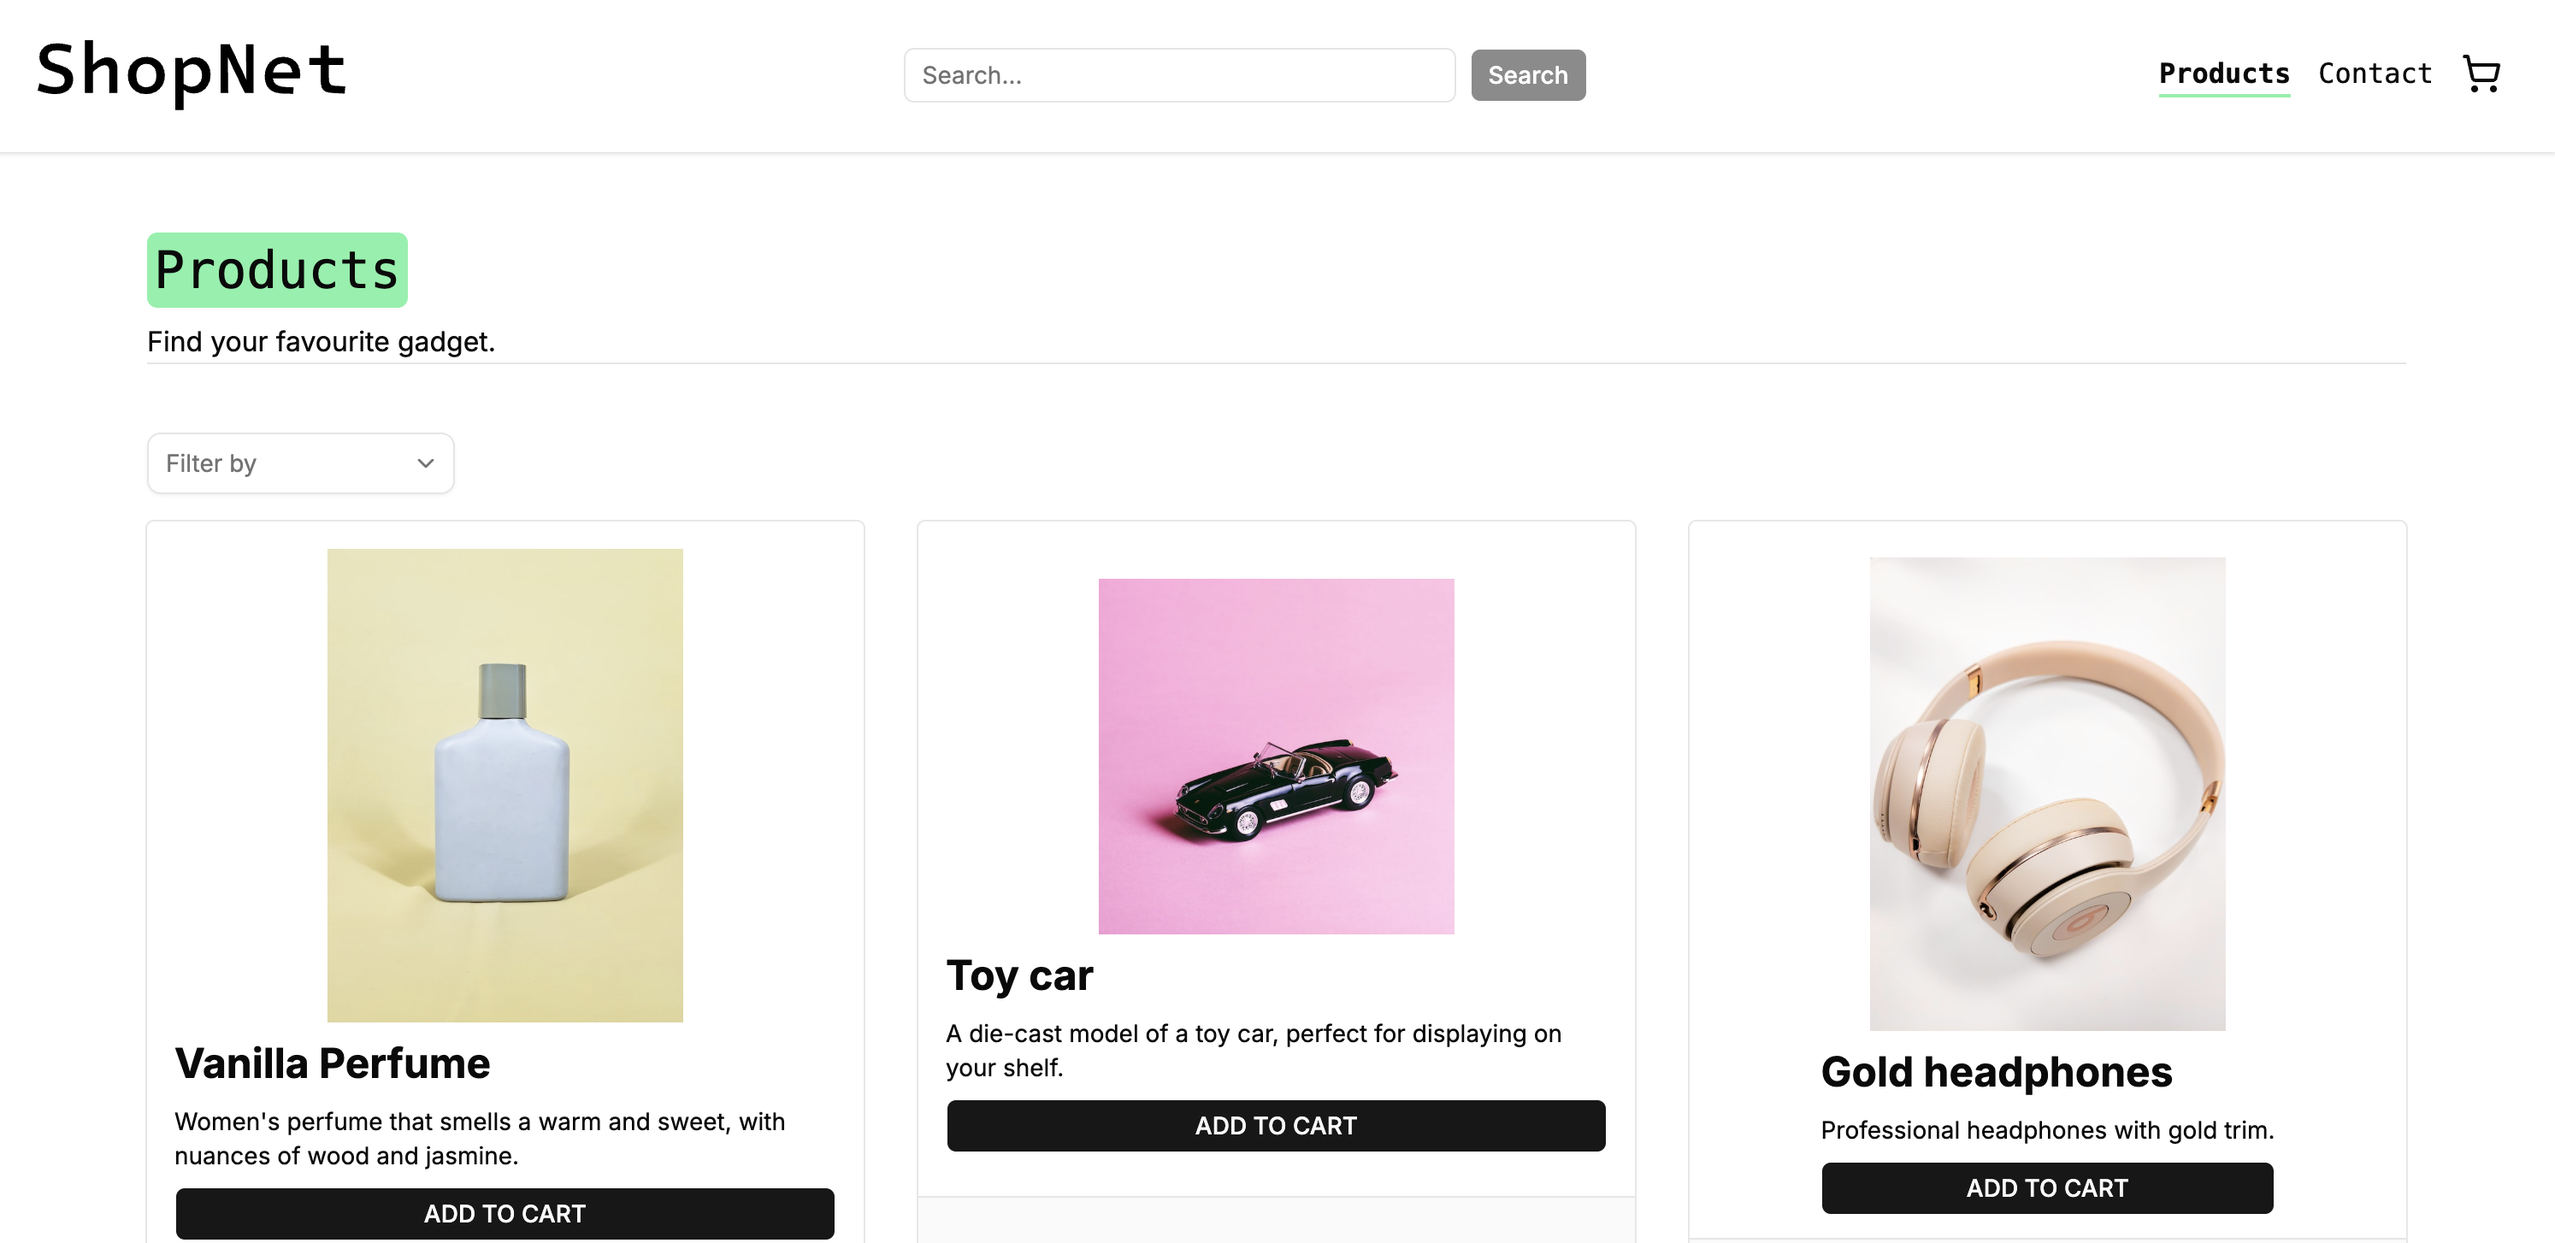
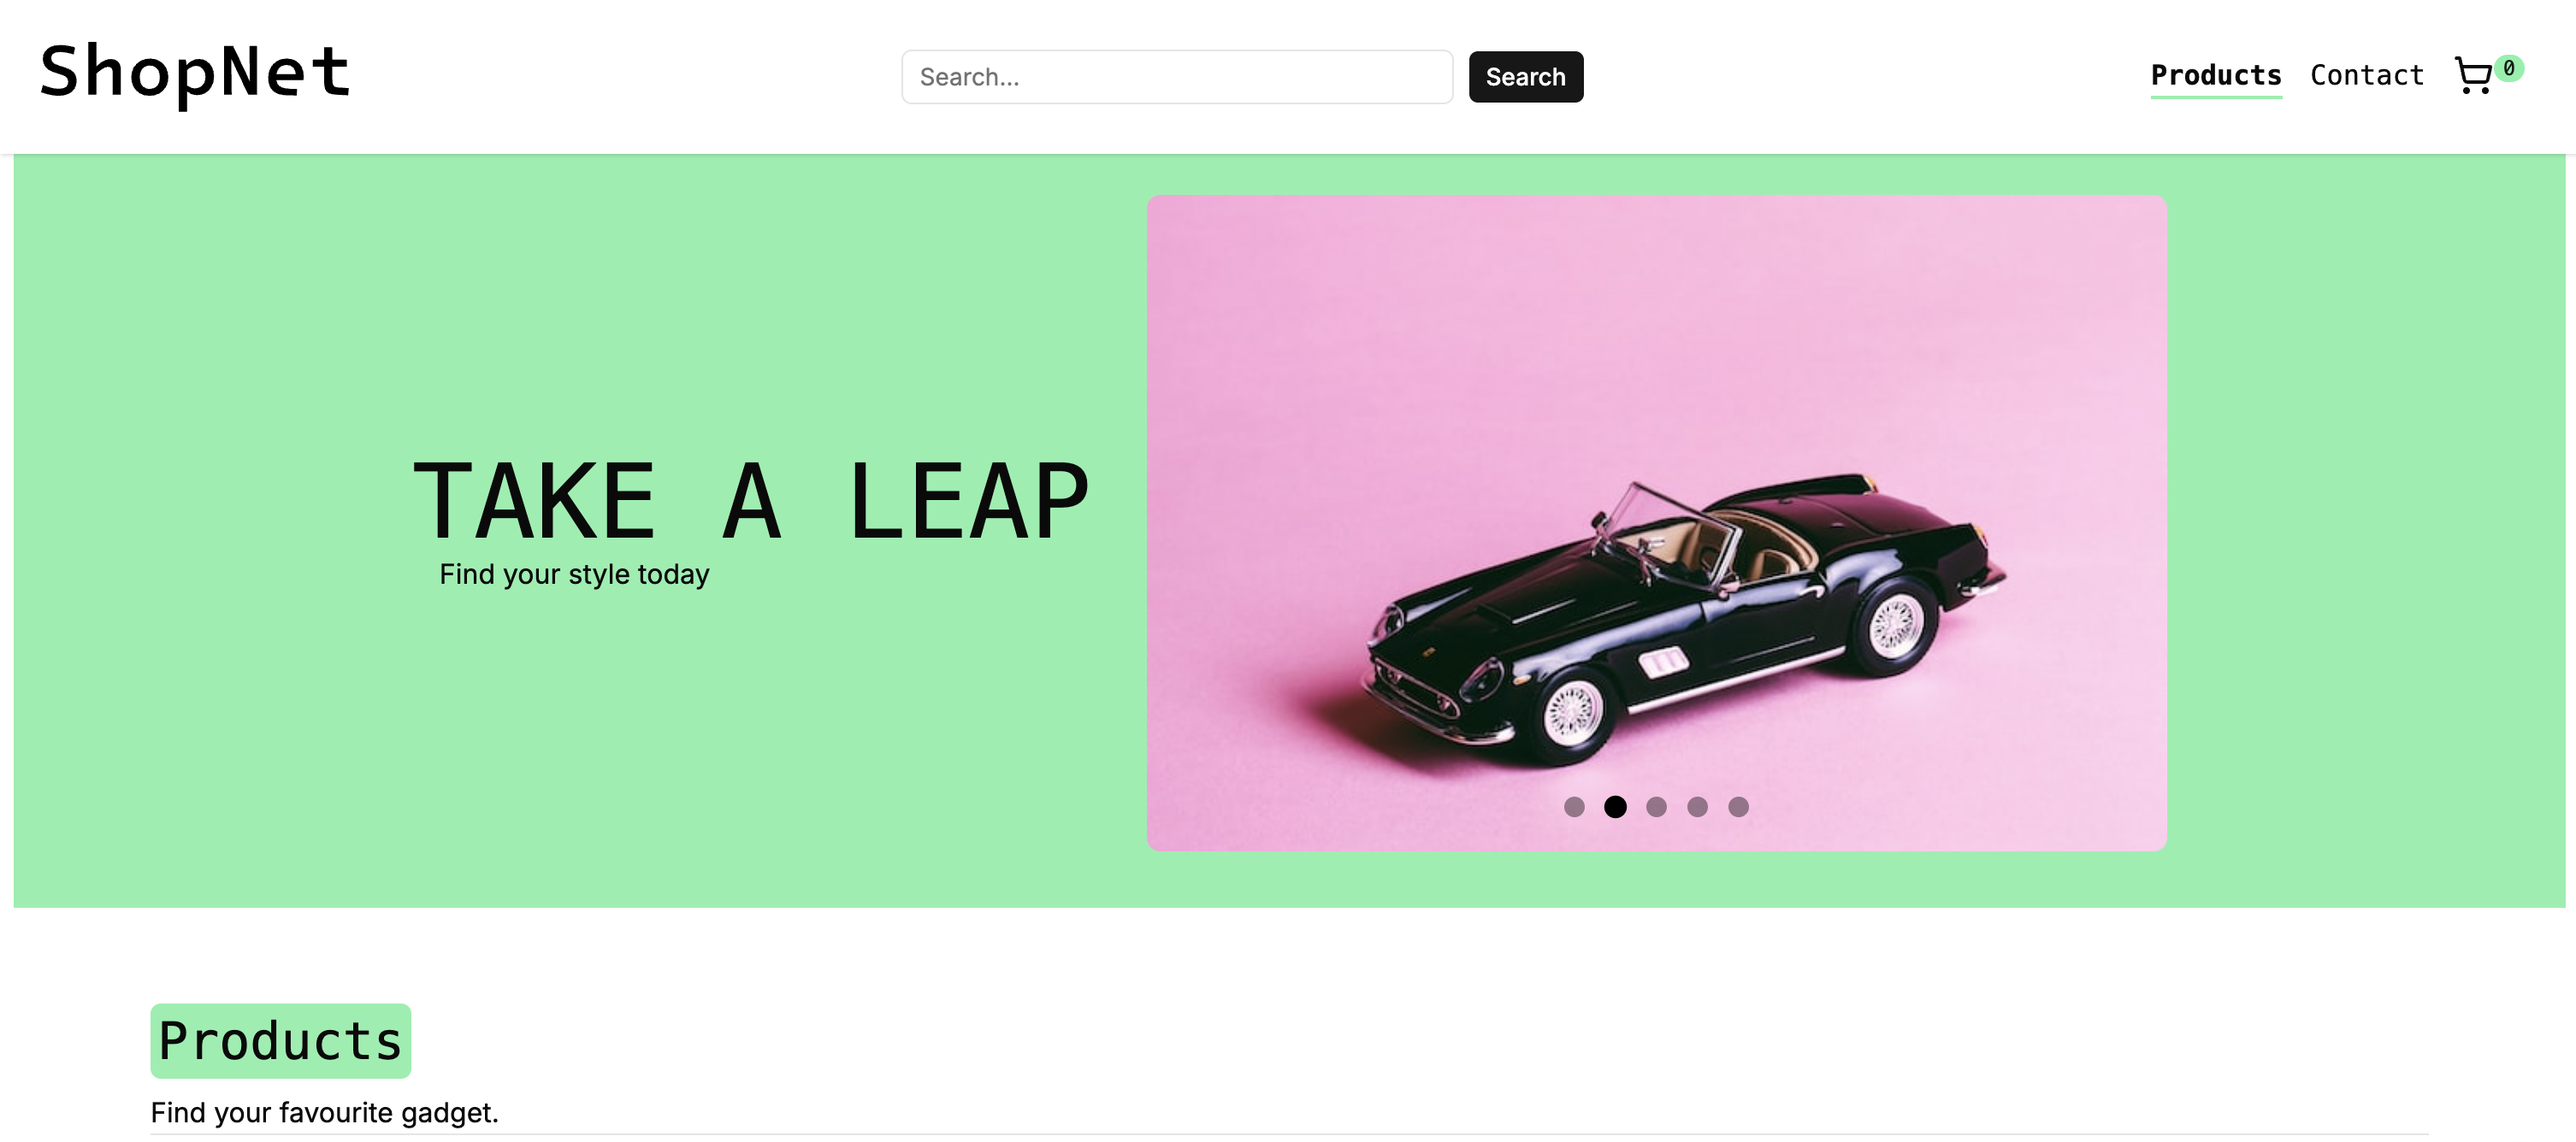
Types and error handling refactor chore: set ts strict flag to true in tsconfig chore: created zod schema for product, review, meta, productById and apiProduct feat: wired new product schemas to API calls, typing the payload and then parsing it chore: made sure pure useDispatch is only used in typed

diff --git a/src/services/api/products/fetch/fetchProductById.ts b/src/services/api/products/fetch/fetchProductById.ts
@@ -1,20 +1,22 @@
 import { BASE_URL, SHOP_URL } from "@/services/api/config";
 import { ApiError } from "@/services/api/apiError";
-import type { Product, ProductMeta } from "@/services/models/product";
+import { productByIdSchema } from "@/lib/zod/productByIdSchema";
+import z from "zod";
 
 export const fetchProductById = async (
   id: string,
-): Promise<{ data: Product; meta: ProductMeta }> => {
+): Promise<z.infer<typeof productByIdSchema>> => {
   const response = await fetch(`${BASE_URL}${SHOP_URL}/${id}`);
-  const payload = await response.json();
 
   if (!response.ok) {
-    throw new ApiError(
-      payload.error ?? payload.message ?? "Fetching article by id failed",
-      response.status || 400,
-      payload,
-    );
+    throw new ApiError("Invalid API response", response.status);
   }
 
-  return payload as { data: Product; meta: ProductMeta };
+  const payload: unknown = await response.json();
+  const parsedPayload = productByIdSchema.safeParse(payload);
+  if (!parsedPayload.success) {
+    throw new ApiError("Invalid parsed API response", 500, parsedPayload.error);
+  }
+
+  return parsedPayload.data;
 };

diff --git a/src/services/api/products/fetch/fetchProducts.ts b/src/services/api/products/fetch/fetchProducts.ts
@@ -1,18 +1,20 @@
 import { BASE_URL, SHOP_URL } from "@/services/api/config";
 import { ApiError } from "@/services/api/apiError";
 import type { ApiProduct } from "@/services/models/product";
+import { apiProductSchema } from "@/lib/zod/apiProductSchema";
 
 export const fetchProducts = async (): Promise<ApiProduct> => {
   const response = await fetch(`${BASE_URL}${SHOP_URL}`);
-  const payload = await response.json();
 
   if (!response.ok) {
-    throw new ApiError(
-      payload.error ?? payload.message ?? "Get all products failed",
-      response.status || 400,
-      payload,
-    );
+    throw new ApiError("Invalid API response", response.status);
   }
 
-  return payload as ApiProduct;
+  const payload: unknown = await response.json();
+  const parsedPayload = apiProductSchema.safeParse(payload);
+  if (!parsedPayload.success) {
+    throw new ApiError("Invalid parsed API response", 500, parsedPayload.error);
+  }
+
+  return parsedPayload.data;
 };

diff --git a/src/lib/zod/productSchema.ts b/src/lib/zod/productSchema.ts
@@ -1,0 +1,33 @@
+import z from "zod";
+
+export const reviewSchema = z.object({
+  id: z.string(),
+  username: z.string(),
+  rating: z.number(),
+  description: z.string(),
+});
+
+export const productSchema = z.object({
+  id: z.string(),
+  title: z.string(),
+  description: z.string(),
+  price: z.number(),
+  discountedPrice: z.number(),
+  image: z.object({
+    url: z.string(),
+    alt: z.string(),
+  }),
+  rating: z.number(),
+  tags: z.array(z.string()),
+  reviews: z.array(reviewSchema),
+});
+
+export const productMetaSchema = z.object({
+  currentPage: z.number().int(),
+  isFirstPage: z.boolean(),
+  isLastPage: z.boolean(),
+  nextPage: z.number().int().nullable(),
+  pageCount: z.number().int(),
+  previousPage: z.number().int().nullable(),
+  totalCount: z.number().int(),
+});

diff --git a/src/components/cart/CartDisplay.tsx b/src/components/cart/CartDisplay.tsx
@@ -1,4 +1,3 @@
-import { useDispatch } from "react-redux";
 import { useAppSelector } from "@/lib/redux/hooks/useAppSelector";
 import { updateQuantity } from "@/lib/redux/slices/cartSlice";
 
@@ -7,10 +6,11 @@ import { Button } from "@/components/ui/button/Button";
 import { AlertBox } from "@/components/alert/AlertBox";
 import { Trash2 } from "lucide-react";
 import { usePendingItem } from "@/hooks/usePendingItem";
+import { useAppDispatch } from "@/lib/redux/hooks/useAppDispatch";
 
 export const CartDisplay = () => {
   const itemsMap = useAppSelector((state) => state.cart.items);
-  const dispatch = useDispatch();
+  const dispatch = useAppDispatch();
   const { pendingItem, setIsPendingItem, confirmDelete, cancelRemove } =
     usePendingItem();
 

diff --git a/src/hooks/usePendingItem.ts b/src/hooks/usePendingItem.ts
@@ -1,13 +1,15 @@
 import { useState } from "react";
-import { useDispatch } from "react-redux";
+import { useAppDispatch } from "@/lib/redux/hooks/useAppDispatch";
 import { removeItem } from "@/lib/redux/slices/cartSlice";
+import toast from "react-hot-toast";
 
 export const usePendingItem = () => {
   const [pendingItem, setIsPendingItem] = useState<string | null>(null);
-  const dispatch = useDispatch();
+  const dispatch = useAppDispatch();
 
   const confirmDelete = () => {
     if (!pendingItem) return;
+    toast("Removed from cart");
     dispatch(removeItem(pendingItem));
     setIsPendingItem(null);
   };

diff --git a/src/components/checkout/CheckoutSummary.tsx b/src/components/checkout/CheckoutSummary.tsx
@@ -15,7 +15,7 @@ export const CheckoutSummary = () => {
   const totalItems = useAppSelector(selectTotalCartQuantity);
   const totalPrice = useAppSelector(selectTotalPrice);
   const fixedTotal = totalPrice.toFixed(2);
-  const discount = useAppSelector(selectTotalDiscount);
+  const discount = useAppSelector(selectTotalDiscount).toFixed(2);
   const deliveryFee = 49;
 
   const { handlePaymentProcess, openDialog, isDisabled } = usePaymentProcess();

diff --git a/src/hooks/useProductDetail.ts b/src/hooks/useProductDetail.ts
@@ -11,7 +11,7 @@ export const useProductDetail = (productId: Product["id"]) => {
   const hasTags = product.tags.length !== 0;
   const highestRating =
     product.reviews?.length > 0
-      ? Math.max(...product.reviews.map((rev) => Number(rev.rating)))
+      ? Math.max(...product.reviews.map((rev) => rev.rating))
       : "Not rated";
   const discountPercentage =
     ((product.price - product.discountedPrice) / product.price) * 100;

diff --git a/src/lib/redux/slices/cartSlice.ts b/src/lib/redux/slices/cartSlice.ts
@@ -3,8 +3,8 @@ import {
   createSelector,
   type PayloadAction,
 } from "@reduxjs/toolkit";
-import type { RootState } from "@/lib/redux/store";
 import { selectProductsById } from "./productSlice";
+import type { RootState } from "@/lib/redux/store";
 
 type CartItem = {
   productId: string;

diff --git a/src/lib/zod/apiProductSchema.ts b/src/lib/zod/apiProductSchema.ts
@@ -1,0 +1,7 @@
+import { z } from "zod";
+import { productSchema, productMetaSchema } from "./productSchema";
+
+export const apiProductSchema = z.object({
+  data: z.array(productSchema),
+  meta: productMetaSchema,
+});

diff --git a/src/lib/zod/productByIdSchema.ts b/src/lib/zod/productByIdSchema.ts
@@ -1,0 +1,7 @@
+import z from "zod";
+import { productSchema } from "./productSchema";
+
+export const productByIdSchema = z.object({
+  data: productSchema,
+  meta: z.object({}),
+});

diff --git a/src/services/models/review.ts b/src/services/models/review.ts
@@ -1,6 +1,6 @@
 export type Review = {
   id: string;
   username: string;
-  rating: string;
+  rating: number;
   description: string;
 };

diff --git a/todo.md b/todo.md
@@ -4,6 +4,7 @@
 
 - Testing:
   - Install and wire up Vitest: https://learning.noroff.no/mod/book/view.php?id=69462&chapterid=117806
+- Documentation JSDoc
 
 ### **TECHNICAL**
 
